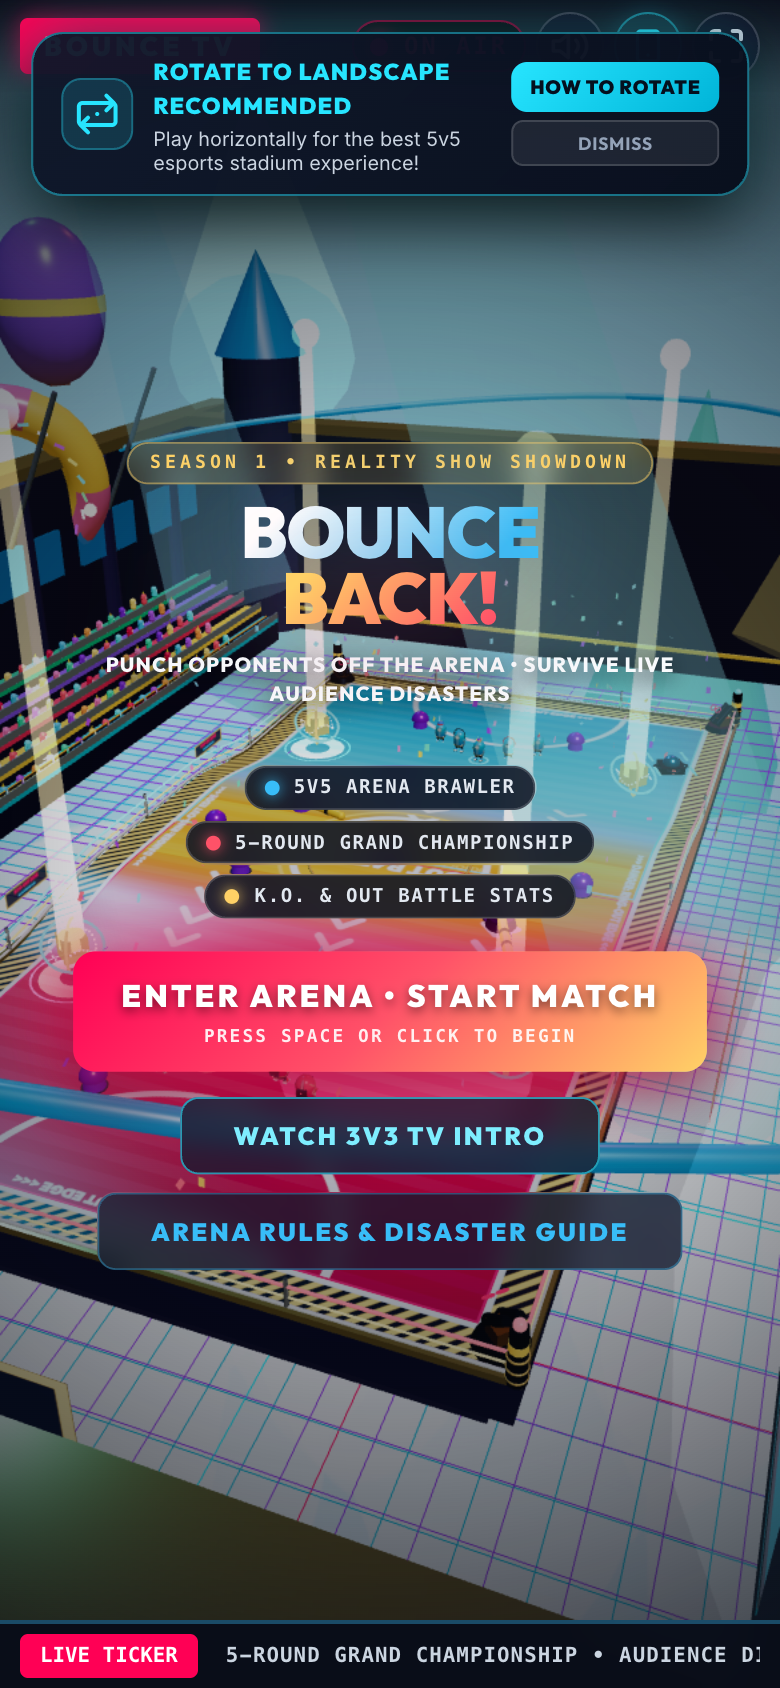
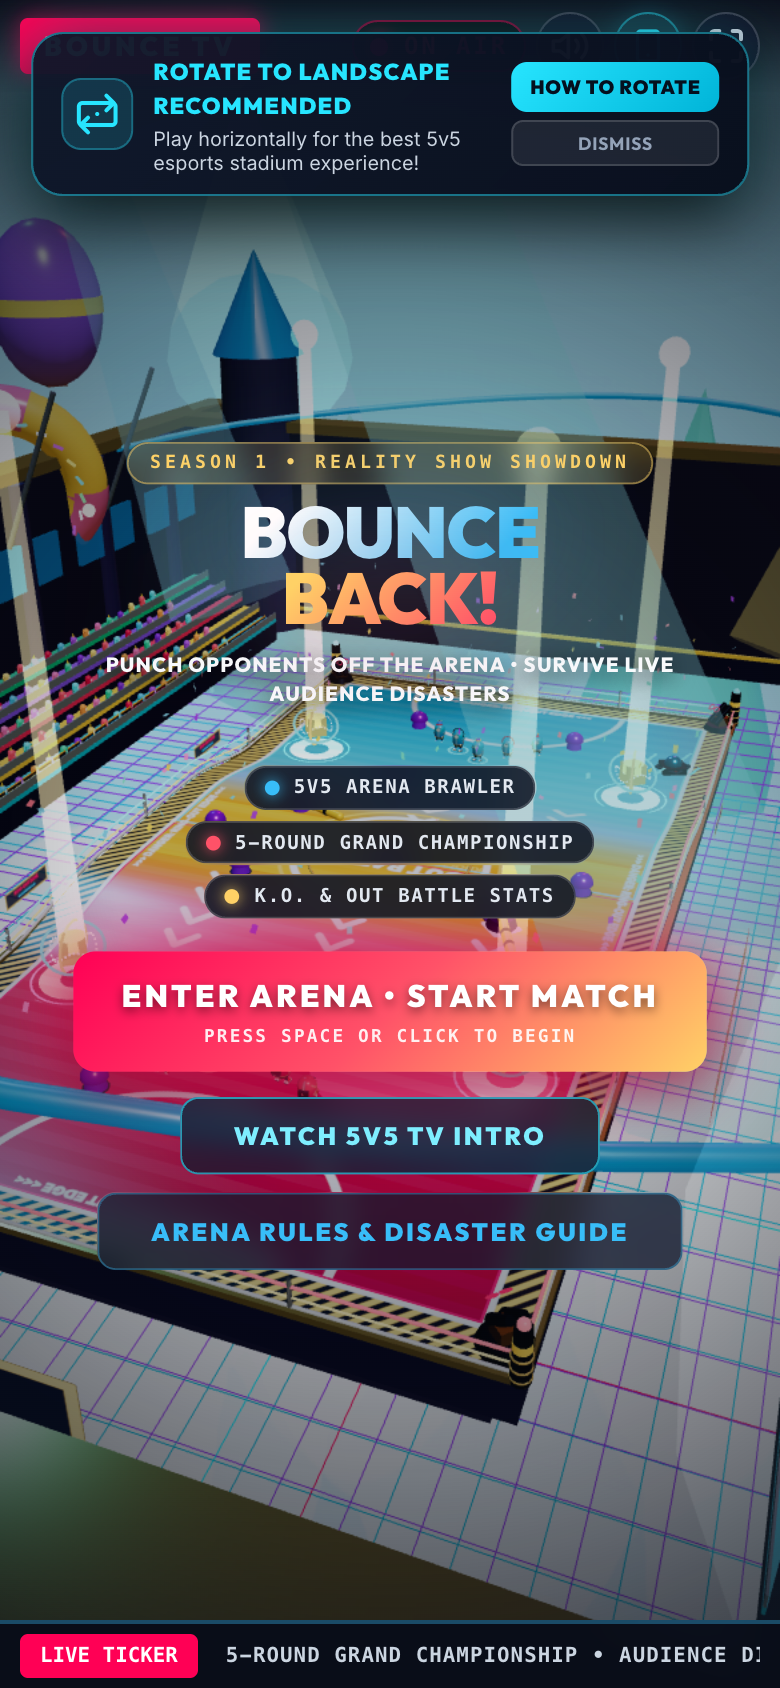
fix(ui): update title button label to WATCH 5V5 TV INTRO and refresh screenshots

diff --git a/src/components/TitleScreenOverlay.tsx b/src/components/TitleScreenOverlay.tsx
@@ -180,7 +180,7 @@ export default function TitleScreenOverlay({ onStartMatch, onWatchIntro }: Title
                 onClick={onWatchIntro}
                 style={{ borderColor: "rgba(39, 229, 255, 0.6)", color: "#7eeeff" }}
               >
-                WATCH 3V3 TV INTRO
+                WATCH 5V5 TV INTRO
               </button>
             )}
             <button
